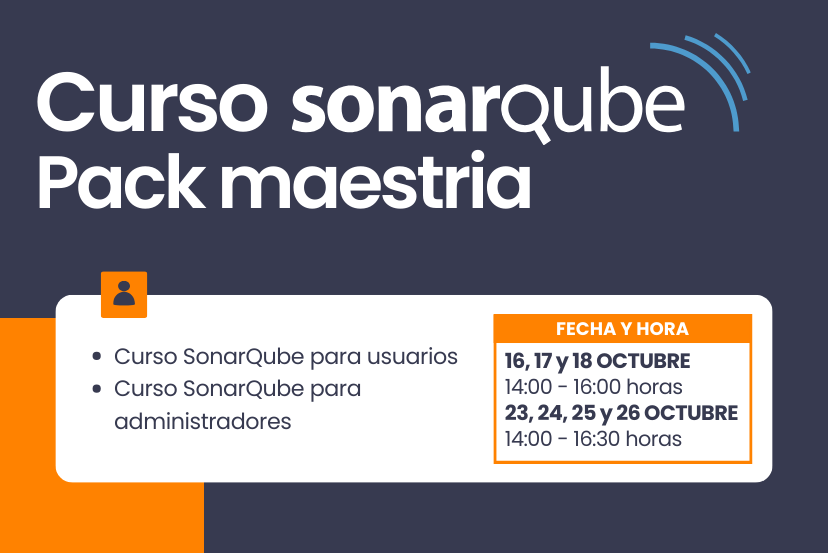
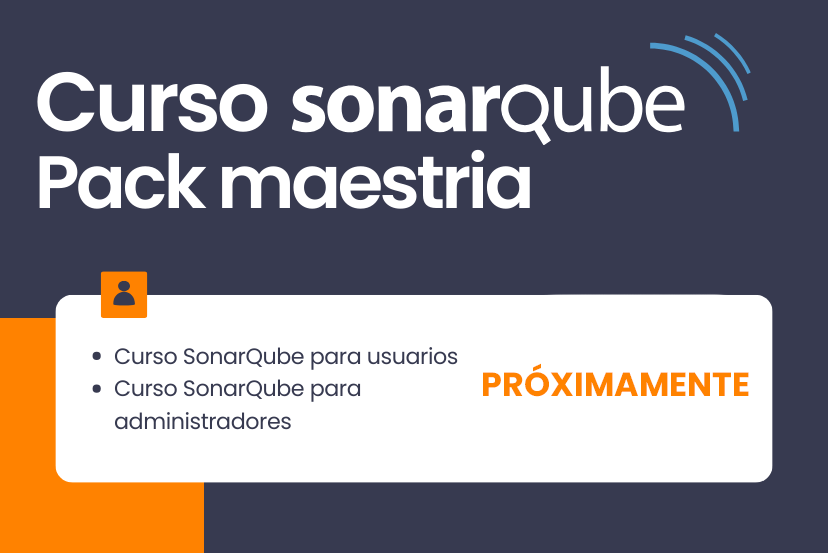
formacionsonar

Changed region(s): [[0.5737, 0.5533, 0.936, 0.8608]]

diff --git a/formacion.html b/formacion.html
@@ -46,7 +46,7 @@ description: Cursos para profesionales y empresas. Ofrecemos cursos de SonarQube
             <h3><strong>Curso de SonarQube para Usuarios</strong></h3>
             <p class="text-left">
               
-              <strong>Octubre 2023 |</strong> En este curso aprenderás los conceptos más importantes de SonarQube e interpretar los resultados de los análisis.
+              En este curso aprenderás los conceptos más importantes de SonarQube e interpretar los resultados de los análisis.
               <br/>
               <br/>
               <br/>
@@ -64,8 +64,8 @@ description: Cursos para profesionales y empresas. Ofrecemos cursos de SonarQube
             <img width="250px" src="/img/sonarsource-products/SonarQube logo black 512 px.png" alt="Curso de SonarQube para administradores. Curso SonarQube en español y en directo">
             <h3><strong>Curso de SonarQube para Administradores</strong></h3>
             <p class=" text-left">
-              
-              <strong>Octubre 2023 |</strong> Aprenderás a instalar, configurar y mantener una instancia de SonarQube con herramientas de integración continua para realizar análisis periódicos de código.
+
+              Aprenderás a instalar, configurar y mantener una instancia de SonarQube con herramientas de integración continua para realizar análisis periódicos de código.
               <br/>
               <br/>
             </p>
@@ -83,7 +83,7 @@ description: Cursos para profesionales y empresas. Ofrecemos cursos de SonarQube
             <h3><strong>Pack Maestría en SonarQube </strong></h3>
             <p class="text-left">
               
-              <strong>Octubre 2023 |</strong> El Pack Maestría en SonarQube incluye el <a href="/curso-sonarqube-usuarios" style="color:#000; font-weight:bold;"> Cursos de SonarQube para usuarios</a> + el <a href="curso-sonarqube-administradores" style="color:#000; font-weight:bold;"> Curso de SonarQube para administradores</a>.
+              El Pack Maestría en SonarQube incluye el <a href="/curso-sonarqube-usuarios" style="color:#000; font-weight:bold;"> Cursos de SonarQube para usuarios</a> + el <a href="curso-sonarqube-administradores" style="color:#000; font-weight:bold;"> Curso de SonarQube para administradores</a>.
               <br/>
               <br/>
             </p>
